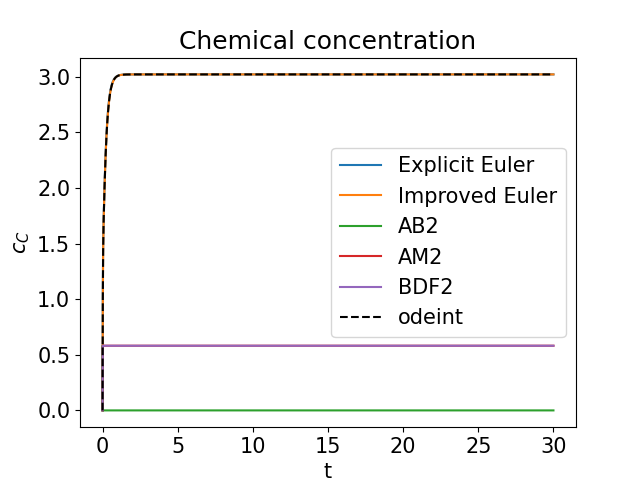
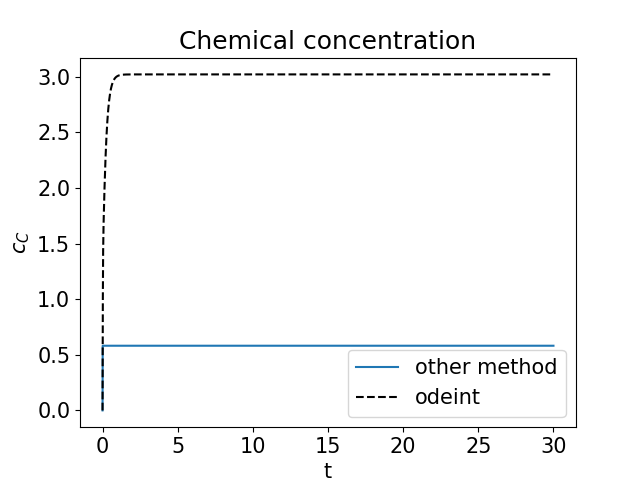
only euler methods work at the moment, two step methods produce values but they compute incorrect solutions

diff --git a/Project2/source_files/__main__.py b/Project2/source_files/__main__.py
@@ -4,90 +4,110 @@ from scipy.integrate import odeint
 from exercise import *
 import os
 
-
-#---------------------------------------------------------------------
+# ---------------------------------------------------------------------
 # main program
-#---------------------------------------------------------------------
+# ---------------------------------------------------------------------
 
 
-V = 25   # biochemical reactor volume [m^3]                  
-Q1 = 2.5 # discharge of the first pipe [m^3/min]
-Q2 = 2.5 # discharge of the second pipe [m^3/min]
-cz0 = 20 # zombie virus concentration in the first pipe [mg/m^3] 
-cc0 = 25 # chemical concentration in the second pipe [mg/m^3]   
+V = 25  # biochemical reactor volume [m^3]
+Q1 = 2.5  # discharge of the first pipe [m^3/min]
+Q2 = 2.5  # discharge of the second pipe [m^3/min]
+cz0 = 20  # zombie virus concentration in the first pipe [mg/m^3]
+cc0 = 25  # chemical concentration in the second pipe [mg/m^3]
 
 k = 1.2  # reaction rate constant [m^3/(mg*min)]
-t0 = 0 
+t0 = 0
 te = 30  # integration interval = 30 minutes
-y0 = np.array([0,0,0]) # initial condition y0 = [0,0,0] 
+y0 = np.array([0, 0, 0])  # initial condition y0 = [0,0,0]
 
 # Parameters for Adams-Bashforth-2 two-step method
 a_AB2 = np.array([0, -1, 1])
-b_AB2 = np.array([-0.5, 1.5, 0]) 
-        
+b_AB2 = np.array([-0.5, 1.5, 0])
+
 # Parameters for Adams-Moulton-2 two-step method
 a_AM2 = np.array([0, -1, 1])
-b_AM2 = np.array([-1/12, 2/3, 5/12])
-  
+b_AM2 = np.array([-1 / 12, 2 / 3, 5 / 12])
+
 # Parameters for BDF-2 two-step method 
-a_BDF2 = np.array([1/2,-2,3/2])
-b_BDF2 = np.array([0,0,1])   
+a_BDF2 = np.array([1 / 2, -2, 3 / 2])
+b_BDF2 = np.array([0, 0, 1])
 
 num_solvers = 5
-#h = np.array([0.1, 0.01, 1e-3, 1e-4]) 
-h = np.array([0.1, 0.01]) 
-cp_err = np.zeros((len(h),num_solvers))
+# h = np.array([0.1, 0.01, 1e-3, 1e-4])
+h = np.array([0.1, 0.01])
+cp_err = np.zeros((len(h), num_solvers))
+y1_app_values = []
+for i in range(len(h)):
+    h_ = h[i]
+    t = np.arange(t0, te, h_)
+    t = np.append(t, te)
 
-for i in range(len(h)): 
-  h_ = h[i]
-  t = np.arange(t0,te,h_)
-  t = np.append(t,te)
-      
-  y_app = odeint(f,y0,t, tfirst = True)
-  # y1 = y_app[1]
-  print(f"y_app: {y_app[:5]}")
+    y_app = odeint(f, y0, t, tfirst=True)
+    # y1_app_values.append(y_app[1])
 
-  y_euler_expl = euler_expl(f,y0,t)
-  if y_euler_expl is not None: print(f"y_euler_expl: {y_euler_expl[:5]}")
-  else: print("y_euler_expl is empty")
+    # y1 = y_app[1]
+    print(f"y_app: {y_app[:5]}")
 
-  y_euler_impr = euler_impr(f,y0,t)
-  if y_euler_impr is not None: print(f"y_euler_impr: {y_euler_impr[:5]}")
-  else: print("y_euler_impr is empty")
+    y_euler_expl = euler_expl(f, y0, t)
+    if y_euler_expl is not None:
+        print(f"y_euler_expl: {y_euler_expl[:5]}")
+    else:
+        print("y_euler_expl is empty")
 
-  y_AB2 = twostep(f,[],y0,[],t,a_AB2,b_AB2)
-  if y_AB2 is not None: print(f"f{y_AB2}: {y_AB2[:5]}")
-  else: print("y_ABE is empty")
+    y_euler_impr = euler_impr(f, y0, t)
+    if y_euler_impr is not None:
+        print(f"y_euler_impr: {y_euler_impr[:5]}")
+    else:
+        print("y_euler_impr is empty")
 
-  y_AM2 = twostep(f,Jf,y0,[],t,a_AM2,b_AM2)
-  if y_AM2 is not None: print(f"y_AME: {y_AM2[:5]}")
-  else: print("y_AME is emtpy")
+    y_AB2 = twostep(f, [], y0, [], t, a_AB2, b_AB2)
+    if y_AB2 is not None:
+        print(f"f{y_AB2}: {y_AB2[:5]}")
+    else:
+        print("y_ABE is empty")
 
-  y_BDF2 = twostep(f,Jf,y0,[],t,a_BDF2,b_BDF2)
-  if y_BDF2 is not None: print(f"y_BDFE: {y_BDF2[:5]}")
-  else: print("y_BDF2 is empty")
+    y_AM2 = twostep(f, Jf, y0, [], t, a_AM2, b_AM2)
+    if y_AM2 is not None:
+        print(f"y_AME: {y_AM2[:5]}")
+    else:
+        print("y_AME is emtpy")
 
-  col = 2 
-  # absolute error for vaccine product concentration
-  cp_err[i,:] = np.array([np.max(np.abs(y_euler_expl[:,col] - y_app[:,col])), 
-                          np.max(np.abs(y_euler_impr[:,col] - y_app[:,col])), 
-                          np.max(np.abs(y_AB2[:,col]        - y_app[:,col])), 
-                          np.max(np.abs(y_AM2[:,col]        - y_app[:,col])), 
-                          np.max(np.abs(y_BDF2[:,col]       - y_app[:,col]))])
+    y_BDF2 = twostep(f, Jf, y0, [], t, a_BDF2, b_BDF2)
+    if y_BDF2 is not None:
+        print(f"y_BDFE: {y_BDF2[:5]}")
+    else:
+        print("y_BDF2 is empty")
 
-# Display y(te) for final step size 
-m = len(t)-1
-print('Concentrations c = (c_Z,c_C,c_P) at t_end = 30 min for h = ',h_,'\n')
-print('     odeint : ',y_app[m,:])  
-print('expl. Euler : ',y_euler_expl[m,:]) 
-print('impl. Euler : ',y_euler_impr[m,:])  
-print('        AB2 : ',y_AB2[m,:])  
-print('        AM2 : ',y_AM2[m,:])  
-print('       BDF2 : ',y_BDF2[m,:])  
+    col = 2
+    print(f"y_euler_expl[:, col] {(y_euler_expl[:10, col])}")
+    print(f"y_app[:, col]): ({y_app[10, col]})")
 
-#--------------------------------------------------------------------------
+
+    # absolute error for vaccine product concentration
+    cp_err[i, :] = np.array([np.max(np.abs(y_euler_expl[:, col] - y_app[:, col])),
+                             np.max(np.abs(y_euler_impr[:, col] - y_app[:, col])),
+                             np.max(np.abs(y_AB2[:, col] - y_app[:, col])),
+                             np.max(np.abs(y_AM2[:, col] - y_app[:, col])),
+                             np.max(np.abs(y_BDF2[:, col] - y_app[:, col]))])
+
+
+    print(f"y1 using odeint is: {y_app[1]}")
+    print(f"y1 using y_AB2 is: {y_AB2[1]}")
+
+# Display y(te) for final step size
+print(f"cp_err: {cp_err}")
+m = len(t) - 1
+print('Concentrations c = (c_Z,c_C,c_P) at t_end = 30 min for h = ', h_, '\n')
+print('     odeint : ', y_app[m, :])
+print('expl. Euler : ', y_euler_expl[m, :])
+print('impl. Euler : ', y_euler_impr[m, :])
+print('        AB2 : ', y_AB2[m, :])
+print('        AM2 : ', y_AM2[m, :])
+print('       BDF2 : ', y_BDF2[m, :])
+
+# --------------------------------------------------------------------------
 # plot concentrations c_z(t), c_C(t), c_P(t)  [for h(end)]
-#--------------------------------------------------------------------------
+# --------------------------------------------------------------------------
 
 path = "/mnt/36C22184C2214987/Coursework/TUHH/Numerics for ODEs/Code/Project2/results/"
 print(path)
@@ -98,83 +118,87 @@ print(path)
 # else:
 #   print("old path used")
 #   path = path
-fs = 15 # FontSize
-title = ['Virus concentration','Chemical concentration','Vaccine product concentration']
-ylabel = ['$c_Z$','$c_C$','$c_P$']
-fname = ['c_Z.png','c_C.png','c_P.png']
+#TODO: Fix AB2, it doesn't work; also BFD2 doesn't work, and AM2 doesn't work. Some mate, something is wrong with two step method;
+fs = 15  # FontSize
+title = ['Virus concentration', 'Chemical concentration', 'Vaccine product concentration']
+ylabel = ['$c_Z$', '$c_C$', '$c_P$']
+fname = ['c_Z.png', 'c_C.png', 'c_P.png']
 for i in range(3):
-  plt.figure()
-  plt.rcParams.update({'font.size': fs})
-  plt.plot(t,y_euler_expl[:,i],t,y_euler_impr[:,i],t,y_AB2[:,i],t,y_AM2[:,i],t,y_BDF2[:,i],t,y_app[:,i],'--k')
-  plt.legend(['Explicit Euler','Improved Euler','AB2','AM2','BDF2','odeint'],loc = 'best')
-  plt.title(title[i])
-  plt.xlabel('t')
-  plt.ylabel(ylabel[i])
-  plt.savefig(path + fname[i])
+    plt.figure()
+    plt.rcParams.update({'font.size': fs})
+    # plt.plot(t,y_euler_expl[:,i],t,y_euler_impr[:,i],t,y_AB2[:,i],t,y_AM2[:,i],t,y_BDF2[:,i],t,y_app[:,i],'--k')
+    plt.plot(t, y_AM2[:, i], t, y_app[:, i], '--k')
+    # plt.legend(['Explicit Euler', 'Improved Euler', 'AB2', 'AM2', 'BDF2', 'odeint'], loc='best')
+    plt.legend(['other method', 'odeint'], loc='best')
+    plt.title(title[i])
+    plt.xlabel('t')
+    plt.ylabel(ylabel[i])
+    plt.savefig(path + fname[i])
 
-#--------------------------------------------------------------------------
+# --------------------------------------------------------------------------
 # plot global error c_P(t)
-#--------------------------------------------------------------------------
+# --------------------------------------------------------------------------
 plt.figure()
 plt.rcParams.update({'font.size': fs})
-plt.loglog(h,cp_err[:,0],'b',h,cp_err[:,1],'r',h,cp_err[:,2],'g',h,cp_err[:,3],'k',h,cp_err[:,4],'m')
+plt.loglog(h, cp_err[:, 0], 'b', h, cp_err[:, 1], 'r', h, cp_err[:, 2], 'g', h, cp_err[:, 3], 'k', h, cp_err[:, 4], 'm')
 plt.title('Error vs stepsize for c_P')
-plt.legend(['Explicit Euler','Improved Euler','AB2','AM2','BDF2'],loc = 'best')
+plt.legend(['Explicit Euler', 'Improved Euler', 'AB2', 'AM2', 'BDF2'], loc='best')
 plt.xlabel('h')
 plt.ylabel('Error')
 plt.grid()
-plt.savefig(path + 'error.png')            
+plt.savefig(path + 'error.png')
 
-#--------------------------------------------------------------------------
+# --------------------------------------------------------------------------
 # robustness
-#-------------------------------------------------------------------------- 
+# --------------------------------------------------------------------------
 h_ = 0.2
-t = np.arange(t0,te,h_)
-t = np.append(t,te)
+t = np.arange(t0, te, h_)
+t = np.append(t, te)
 
-y_euler_expl = euler_expl(f,y0,t)  
-y_euler_impr = euler_impr(f,y0,t)
-y_AB2 = twostep(f,[],y0,[],t,a_AB2,b_AB2)
-y_AM2 = twostep(f,Jf,y0,[],t,a_AM2,b_AM2)
-y_BDF2 = twostep(f,Jf,y0,[],t,a_BDF2,b_BDF2)
+y_euler_expl = euler_expl(f, y0, t)
+y_euler_impr = euler_impr(f, y0, t)
+y_AB2 = twostep(f, [], y0, [], t, a_AB2, b_AB2)
+y_AM2 = twostep(f, Jf, y0, [], t, a_AM2, b_AM2)
+y_BDF2 = twostep(f, Jf, y0, [], t, a_BDF2, b_BDF2)
 
-#alpha = np.arange(0.5,1.5,0.05)
-alpha = np.arange(0.7,1.3,0.05)
-delta = np.zeros((num_solvers,len(alpha)))
-j = 0 # c_z
-#j = 1 # c_c
-#j = 2 # c_P
+# alpha = np.arange(0.5,1.5,0.05)
+alpha = np.arange(0.7, 1.3, 0.05)
+delta = np.zeros((num_solvers, len(alpha)))
+j = 0  # c_z
+# j = 1 # c_c
+# j = 2 # c_P
 
-k_ = np.array([-1,-1,2])*k  
+k_ = np.array([-1, -1, 2]) * k
 
-for i in range(len(alpha)):     
-  Q_in = np.array([alpha[i]*Q1,Q2,0]) # variation of Q_in(1) = Q1 by at most +/- 30% 
-  Q_out = Q_in[0] + Q_in[1] 
-  c_in = np.array([cz0,cc0,0] )
-  k_ = np.array([-1,-1,2])*k     
-  f_ = lambda  t,c: (Q_in/V) * c_in + k_ * c[0] * c[1] - Q_out/V * c 
-  Jf_ = lambda t,c: np.matrix([[k_[0]*c[1] - Q_out/V , k_[0]*c[0]           , 0      ], 
-                               [k_[1]*c[1]           , k_[1]*c[0] - Q_out/V , 0      ], 
-                               [k_[2]*c[1]           , k_[2]*c[0]           ,-Q_out/V]])
-    
-  y_euler_expl_ = euler_expl(f_,y0,t)  
-  y_euler_impr_ = euler_impr(f_,y0,t)
-  y_AB2_ = twostep(f_,[],y0,[],t,a_AB2,b_AB2)
-  y_AM2_ = twostep(f_,Jf_,y0,[],t,a_AM2,b_AM2)
-  y_BDF2_ = twostep(f_,Jf_,y0,[],t,a_BDF2,b_BDF2)
-    
-  delta[0,i] = np.linalg.norm(y_euler_expl[:,j] - y_euler_expl_[:,j])
-  delta[1,i] = np.linalg.norm(y_euler_impr[:,j] - y_euler_impr_[:,j])
-  delta[2,i] = np.linalg.norm(y_AB2[:,j]        - y_AB2_[:,j])
-  delta[3,i] = np.linalg.norm(y_AM2[:,j]        - y_AM2_[:,j])
-  delta[4,i] = np.linalg.norm(y_BDF2[:,j]       - y_BDF2_[:,j])
+for i in range(len(alpha)):
+    Q_in = np.array([alpha[i] * Q1, Q2, 0])  # variation of Q_in(1) = Q1 by at most +/- 30%
+    Q_out = Q_in[0] + Q_in[1]
+    c_in = np.array([cz0, cc0, 0])
+    k_ = np.array([-1, -1, 2]) * k
+    f_ = lambda t, c: (Q_in / V) * c_in + k_ * c[0] * c[1] - Q_out / V * c
+    Jf_ = lambda t, c: np.matrix([[k_[0] * c[1] - Q_out / V, k_[0] * c[0], 0],
+                                  [k_[1] * c[1], k_[1] * c[0] - Q_out / V, 0],
+                                  [k_[2] * c[1], k_[2] * c[0], -Q_out / V]])
+
+    y_euler_expl_ = euler_expl(f_, y0, t)
+    y_euler_impr_ = euler_impr(f_, y0, t)
+    y_AB2_ = twostep(f_, [], y0, [], t, a_AB2, b_AB2)
+    y_AM2_ = twostep(f_, Jf_, y0, [], t, a_AM2, b_AM2)
+    y_BDF2_ = twostep(f_, Jf_, y0, [], t, a_BDF2, b_BDF2)
+
+    delta[0, i] = np.linalg.norm(y_euler_expl[:, j] - y_euler_expl_[:, j])
+    delta[1, i] = np.linalg.norm(y_euler_impr[:, j] - y_euler_impr_[:, j])
+    delta[2, i] = np.linalg.norm(y_AB2[:, j] - y_AB2_[:, j])
+    delta[3, i] = np.linalg.norm(y_AM2[:, j] - y_AM2_[:, j])
+    delta[4, i] = np.linalg.norm(y_BDF2[:, j] - y_BDF2_[:, j])
 
 plt.figure()
 plt.rcParams.update({'font.size': fs})
-plt.plot(alpha,delta[0,:],'r-o',alpha,delta[1,:],'g-*',alpha,delta[2,:],'b-*',alpha,delta[3,:],'m-o',alpha,delta[4,:],'k-*')
-plt.legend(['Explicit Euler','Improved Euler','AB2','AM2','BDF2'],loc = 'best')
+plt.plot(alpha, delta[0, :], 'r-o', alpha, delta[1, :], 'g-*', alpha, delta[2, :], 'b-*', alpha, delta[3, :], 'm-o',
+         alpha, delta[4, :], 'k-*')
+plt.legend(['Explicit Euler', 'Improved Euler', 'AB2', 'AM2', 'BDF2'], loc='best')
 plt.title('Robustness study by changing $Q_{1,new} = \\alpha Q_1$')
 plt.xlabel('$\\alpha$')
-ylabel = ['$\|\Delta c_Z\|$','$\|\Delta c_C\|$','$\|\Delta c_P\|$']
-plt.ylabel(ylabel[j])   
+ylabel = ['$\|\Delta c_Z\|$', '$\|\Delta c_C\|$', '$\|\Delta c_P\|$']
+plt.ylabel(ylabel[j])
 plt.savefig(path + 'robustness.png')

diff --git a/Project2/source_files/exercise.py b/Project2/source_files/exercise.py
@@ -62,6 +62,7 @@ def euler_expl(f, y0, t):
     for n in range(len(t) - 1):
         h = t[n + 1] - t[n]
         y[n + 1] = y[n] + (h * f(t[n] + h, y[n]))
+        y = np.array(y)
     return y
 
 
@@ -116,6 +117,7 @@ def euler_impr(f, y0, t):
         h_half = h / 2
         y_half = y[n] + (h_half) * f(t[n], y[n])
         y[n + 1] = y[n] + h * f(t[n] + h_half, y_half)
+        y = np.array(y)
     return y
 
 
@@ -125,7 +127,6 @@ def euler_impr(f, y0, t):
 def twostep(f, Jf, y0, y1, t, a, b):
     """
     twostep(f,y0,y1,t,a,b)
-
     This function implements an explicit or implicit two-step method for solving the initial value problem
 
       y'(s) = f(s,y(s))  for s in [t0,te]
@@ -185,23 +186,22 @@ def twostep(f, Jf, y0, y1, t, a, b):
     # print(y0)
     y[0] = y0
     # if y1 is False:
+    y1_values = []
     if y1 == []:
         # print(f"y1 is mepty")
         y[1] = odeint(f, y0, t, tfirst=True)[1]
+        # y1_values = []
+        # y1_values.append(y[1])
+        # print(f"y1 generated by odeint for two step method  is: {y[1]}")
         # We can create y1 by solve IVP here
 
-    if len(b) == 2 or b[2] == 0:
-        pass  # Explicity two step method
+    if len(b) == 2 or b[2] == 0: # Explicity two step method
+        pass
     else:
         for n in range(len(t) - 2):
             h = t[n + 1] - t[n]
-            # print(f"b[0] is: {type(b[0])}")
-            # print(f"(b[0] * f(t[n], y[n]): {f(t[n], y[n])}")
-            # b[0] = b[0] * np.identity(dim)
-            # b[1] = b[1] * np.identity(dim)
             f_n = f(t[n], y[n])
             f_n1 = f(t[n + 1], y[n + 1])
-            # Here why am I not able to do b0 * fn? this is simple scalar multiplicaiton of avactor
             const_S = a[0] * y[n] + a[1] * y[n + 1] - h * (b[0] * f_n + b[1] * f_n1)
 
             def F(y):
@@ -217,6 +217,7 @@ def twostep(f, Jf, y0, y1, t, a, b):
                 z_initial_guess = z_initial_guess - newton_update
             y[n + 2] = z_initial_guess
             # y = np.array(y)
+            # print(f"y1_values array is: {y1_values[0]}")
     return y
 
 
